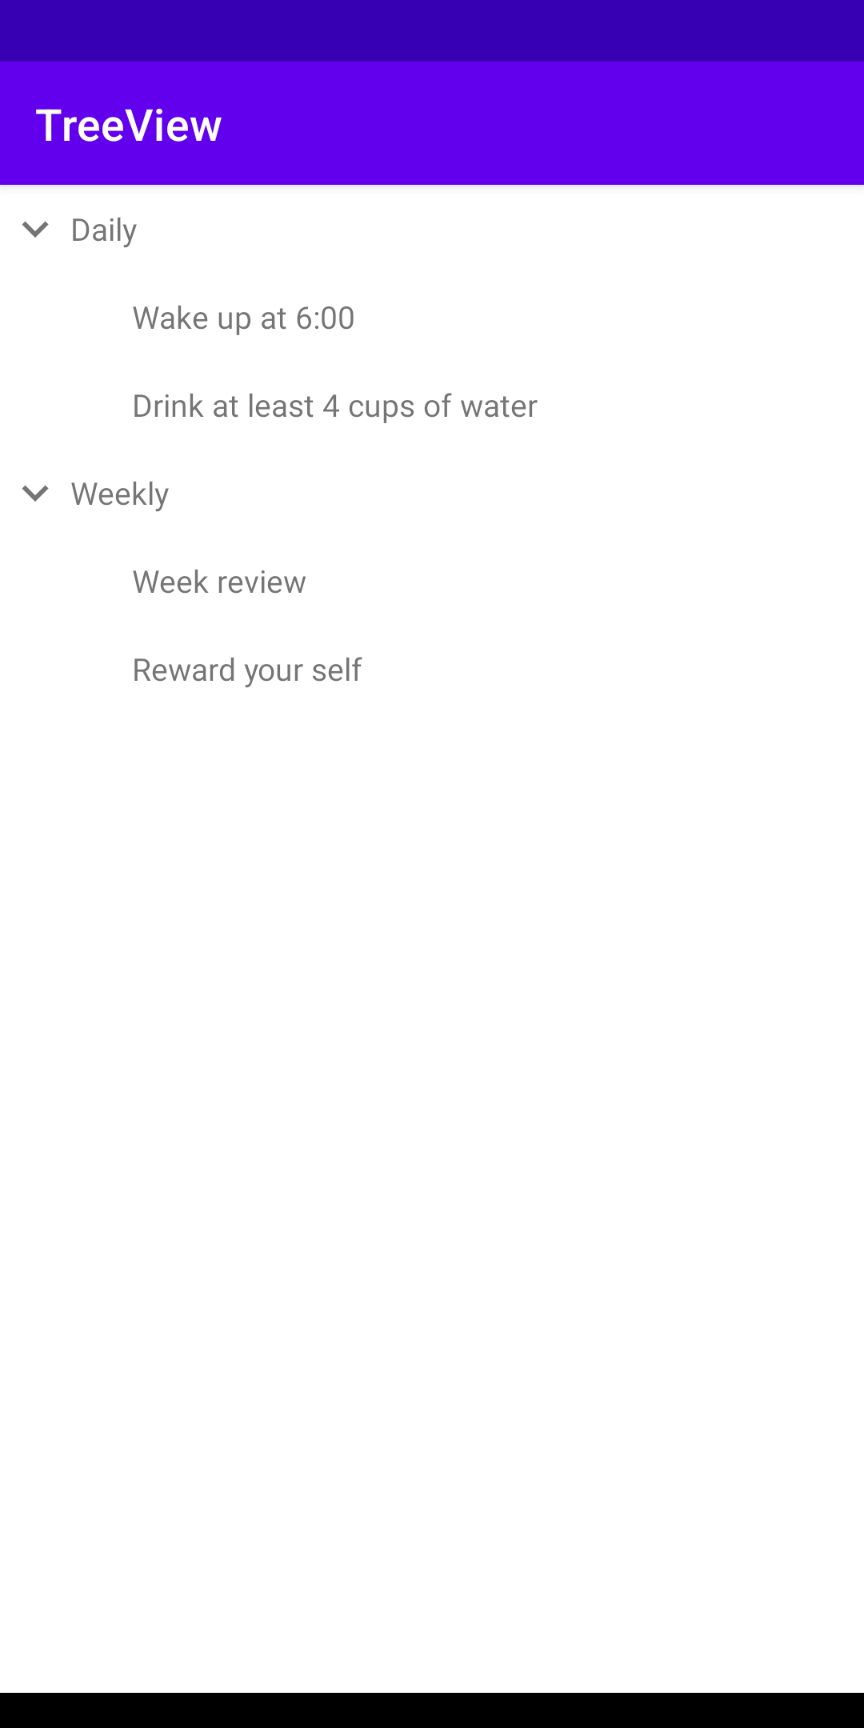
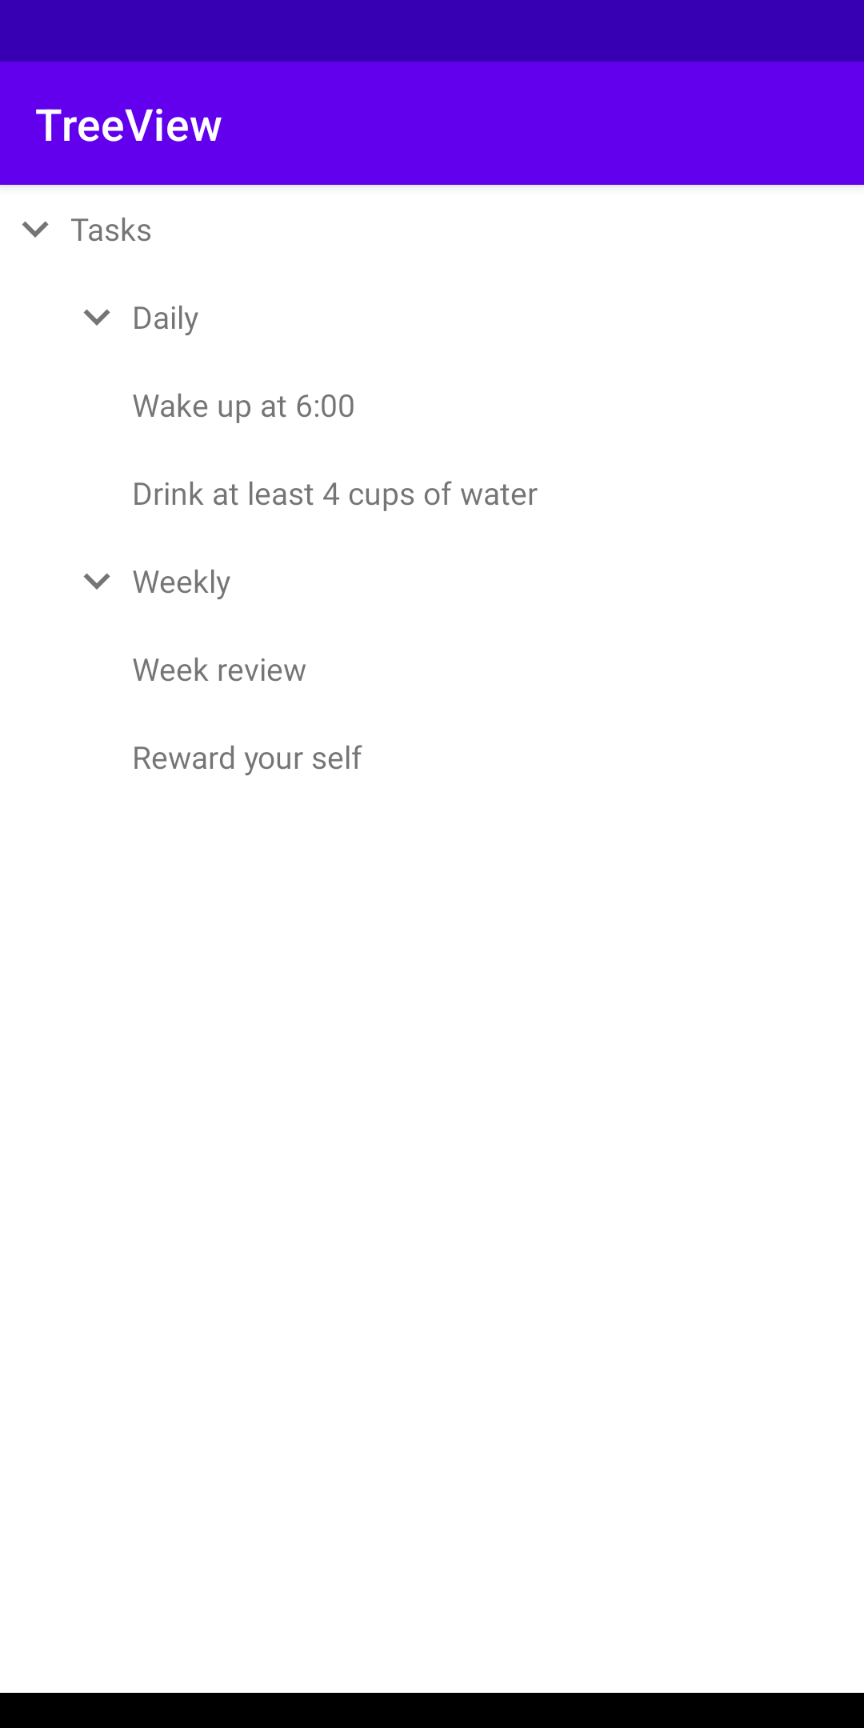
docs: update README.md

diff --git a/README.md b/README.md
@@ -111,7 +111,7 @@ TreeView treeView = findViewById(R.id.tree_view);
 TaskTreeAdapter adapter = new TaskTreeAdapter();
 treeView.setAdapter(adapter);
 
-TreeItem<String> root = new TreeItem<>("Tasks");
+TreeItem<String> root = new TreeItem<>("Tasks", true);
 TreeItem<String> daily = new TreeItem<>("Daily", true);
 TreeItem<String> weekly = new TreeItem<>("Weekly", true);
 
